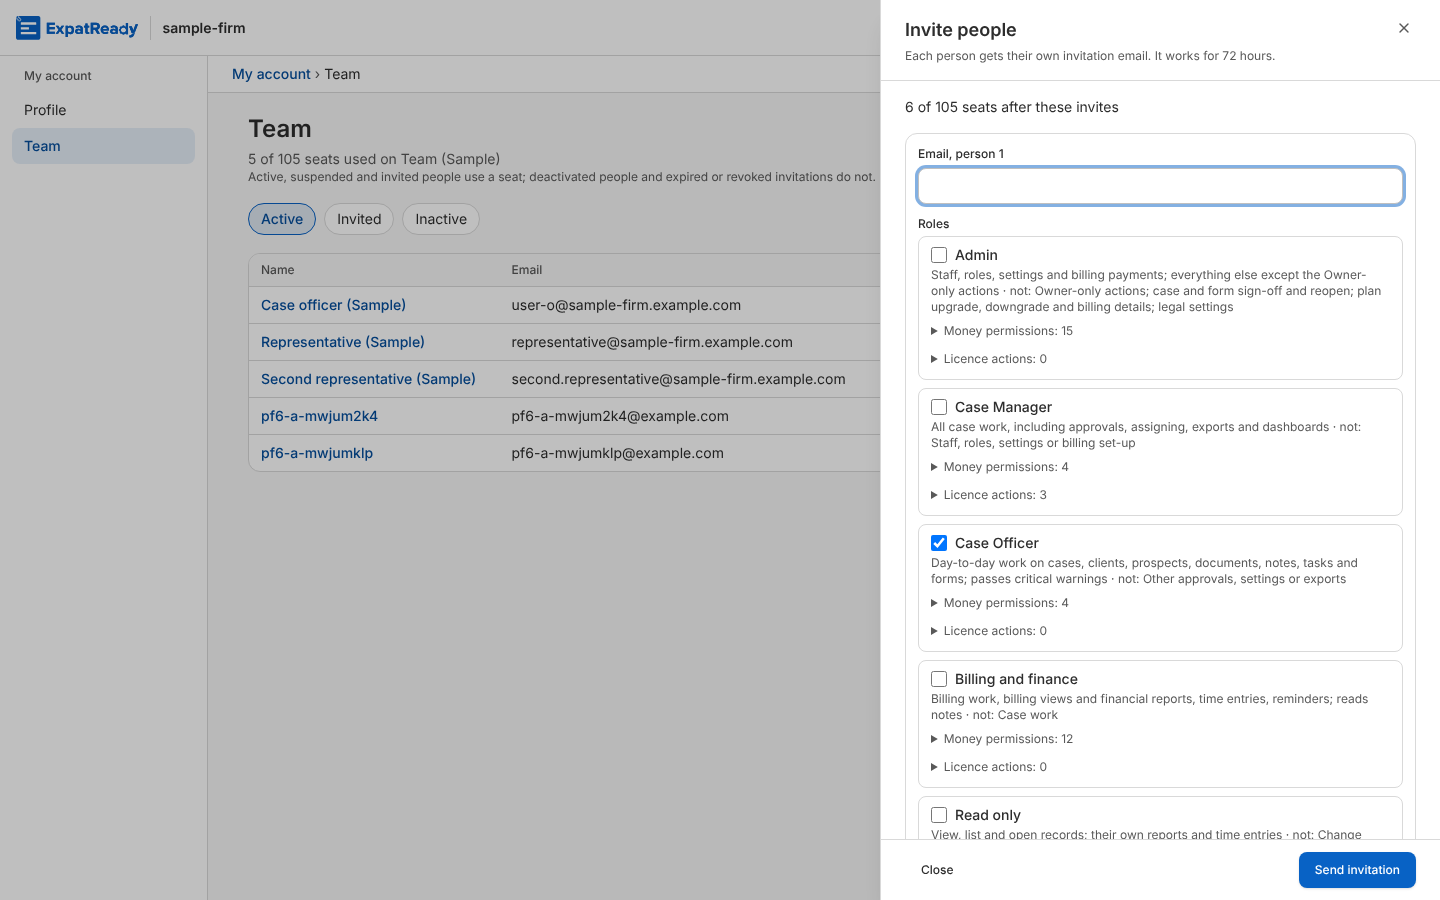
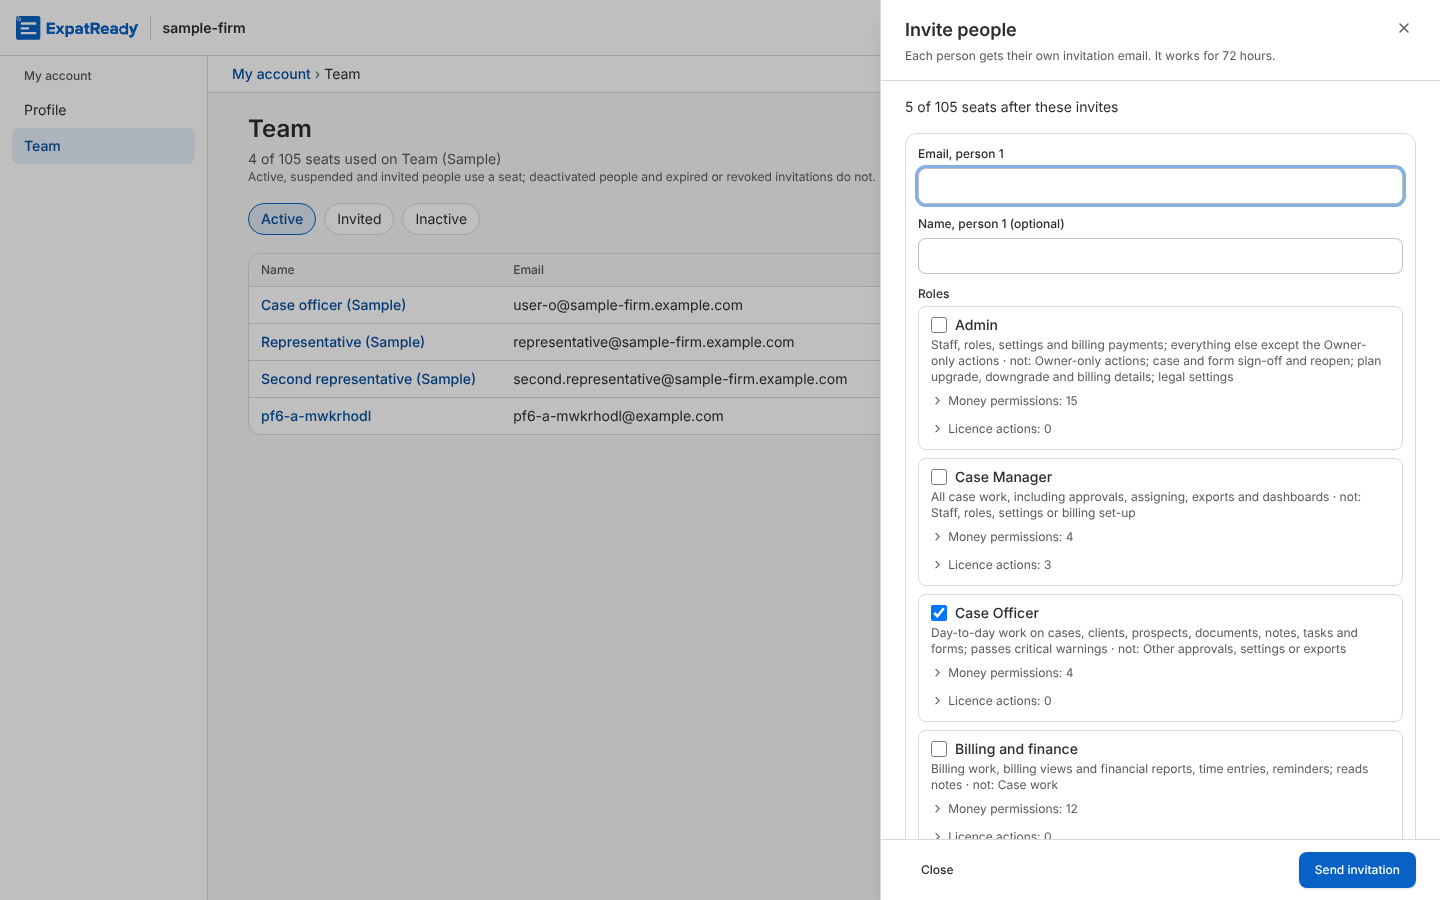
runtime: PF-4dn — Name after Email on each invite row (Email keeps the first focus); MODULE.md lines; screenshot
Claude-Session: https://claude.ai/code/session_018BSQJoYpp2kpcnaLqo1F9Z

diff --git a/ai-workers/problem-1-pathway-setup-and-form-filling/prototype/studio/web/src/modules/platform/staff/invite-panel.tsx b/ai-workers/problem-1-pathway-setup-and-form-filling/prototype/studio/web/src/modules/platform/staff/invite-panel.tsx
@@ -49,11 +49,12 @@ export function InvitePanel({ open, onOpenChange, roles, me, seats, returnFocus 
           const money = moneyKeysAdded(roles, r.roles), dup = twice(r);
           return (
             <section key={r.n} className="rounded-xl border border-border p-3" aria-label={`Person ${i + 1}`} data-invite-row={i + 1}>
-              <Field label={`Name, person ${i + 1} (optional)`}>
-                <Input value={r.name} maxLength={120} autoComplete="off" onChange={(e) => set(r.n, { name: e.target.value, error: null })} data-invite-name />
-              </Field>
-              <div className="mt-3"><Field label={`Email, person ${i + 1}`} error={dup ? "This email is already on another row." : r.error}>
+              <Field label={`Email, person ${i + 1}`} error={dup ? "This email is already on another row." : r.error}>
                 <Input type="email" value={r.email} autoComplete="off" onChange={(e) => set(r.n, { email: e.target.value, error: null })} />
+              </Field>
+              {/* PF-4dn: after the email, the one required field, which keeps the panel's first focus (PF-6 DW8). */}
+              <div className="mt-3"><Field label={`Name, person ${i + 1} (optional)`}>
+                <Input value={r.name} maxLength={120} autoComplete="off" onChange={(e) => set(r.n, { name: e.target.value, error: null })} data-invite-name />
               </Field></div>
               <div className="mt-3"><RolePicker roles={roles} offered={offered} chosen={r.roles} legend="Roles" onChange={(x) => set(r.n, { roles: x, error: null })} /></div>
               <p className="mt-2 text-xs text-text-muted" data-role-line>{r.roles.length ? roleLine(r.roles) : "Choose at least one role."}</p>

diff --git a/ai-workers/problem-1-pathway-setup-and-form-filling/prototype/studio/api/src/platform/MODULE.md b/ai-workers/problem-1-pathway-setup-and-form-filling/prototype/studio/api/src/platform/MODULE.md
@@ -7,7 +7,7 @@ Firms, staff and sign-in, settings, secrets, jobs, logs, complaints and message 
 
 **Purpose.** `firm-scope.ts` the one firm filter; `identity/` tokens, staff and the guard (Cognito or local); `settings.ts` and `config/` typed firm settings and app configuration; `secret-box/` AES-256-GCM secrets; `jobs/` the one job runner (pg-boss); `observability/` the one logger, redaction, metrics, alerts; `web-address/` each firm's web address; `complaints/`; `messages/consent/` the consent store; `audit/`; `firms/` self-serve sign-up to a no-card trial (PF-5); `terms/` pending terms and their acceptances (PF-5t); `billing/` BillingPort's Stripe adapter (`ports/billing.ts` holds the port and its fake).
 **Owner area.** platform module rows PF-* (Unconfirmed: no lane map in code).
-**Entry points.** `/api/platform/complaints` (PF-21w; PF-21v adds `GET handlers`); `/api/platform`: `GET me`, `POST session/local`, `POST staff/invitations`, `POST staff/invitations/batch` (PF-4c: 1-20 rows, flags per row, one seat check), `PATCH staff/:id/roles`, `POST staff/:id/deactivate`, `PUT staff/:id/credential`; PF-4b: `GET staff`, `GET staff/:id`, `GET licences`, `GET|PUT me/account`, `GET settings/two-step`, `POST session/callback`, `POST session/sign-out`, `POST staff/:id/sign-out-everywhere`, `POST staff/:id/reset-two-step`, `/api/public/invitations/:token` (+ `/accept`), `requireStepUp` (401), `MAIL_PORT`, `IDENTITY_ADMIN_PORT`; PF-6r: `GET roles` (the six starter roles, each key with class and scope); PF-19b: `MESSAGE_PORT`, `MESSAGES_MAIL` (MailPort over MessagePort: booking mail), `GET /api/demo/platform-inbox` (demo only, with attachments); `firmScope(firmId)`, `PlatformJobs` (`jobs.handle`), `CONSENT_PORT`, the guard of `/api/platform/*` and `/api/front-office/*`; `/api/public` (PF-5, open doors): `GET plans`, `POST signup`, `POST signup/verify`; PF-5t: `GET me/terms`, `POST me/terms/accept`, `GET terms/acceptances`, `TERMS_GATE` (the guard's 428 TERMS_PENDING).
+**Entry points.** `/api/platform/complaints` (PF-21w; PF-21v adds `GET handlers`); `/api/platform`: `GET me`, `POST session/local`, `POST staff/invitations` (PF-4dn: optional `displayName`, used at accept), `POST staff/invitations/batch` (PF-4c: 1-20 rows, flags per row, one seat check), `PATCH staff/:id/roles`, `POST staff/:id/deactivate`, `PUT staff/:id/credential`; PF-4b: `GET staff`, `GET staff/:id`, `GET licences`, `GET|PUT me/account`, `GET settings/two-step`, `POST session/callback`, `POST session/sign-out`, `POST staff/:id/sign-out-everywhere`, `POST staff/:id/reset-two-step`, `/api/public/invitations/:token` (+ `/accept`), `requireStepUp` (401), `MAIL_PORT`, `IDENTITY_ADMIN_PORT`; PF-6r: `GET roles` (the six starter roles, each key with class and scope); PF-19b: `MESSAGE_PORT`, `MESSAGES_MAIL` (MailPort over MessagePort: booking mail), `GET /api/demo/platform-inbox` (demo only, with attachments); `firmScope(firmId)`, `PlatformJobs` (`jobs.handle`), `CONSENT_PORT`, the guard of `/api/platform/*` and `/api/front-office/*`; `/api/public` (PF-5, open doors): `GET plans`, `POST signup`, `POST signup/verify`; PF-5t: `GET me/terms`, `POST me/terms/accept`, `GET terms/acceptances`, `TERMS_GATE` (the guard's 428 TERMS_PENDING).
 
 **Invariants (set by).**
 - Every read and write of a platform or front-office table goes through `firmScope(firmId)`; another firm's row is "not found" (PF-3, contracts §0.2; P-559).
@@ -25,7 +25,7 @@ Firms, staff and sign-in, settings, secrets, jobs, logs, complaints and message 
 - Firms' billing goes through BillingPort only; CI and lanes use its fake or recorded Stripe answers, never a live call (PF-5, contracts §0.3).
 
 **Tables.** platformFirm, platformStaff, platformStaffCredential, platformRoleGrant, platformSessionRevocation, platformFirmSetting, platformFirmWebAddress, platComplaint, platComplaintEvent, msgConsent, msgConsentWording, platformTermsVersion, platformTermsAcceptance, platformSignupPending, moduleEvent, auditEvent.
-**Tests.** `tests/check_pf12_walls.ts`, `tests/check_pf3_platform_schema.ts`, `tests/check_pf4_identity.ts`, `tests/check_pf4b_session_reads.ts`, `tests/check_pf4c_batch_invite.ts`, `tests/check_pf6m_money_line.ts`, `tests/check_pf6m2_invite_recheck.ts`, `tests/check_pf14_jobs.ts`, `tests/check_pf21_complaints.ts`, `tests/check_pf21w_routes.ts`, `tests/check_pf21v_views.ts`, `tests/check_pf23_observability.ts`, `tests/check_pf24_secrets.ts`, `tests/check_pf25_web_address.ts`, `tests/check_pf5_signup_billing.ts`, `tests/check_pf5v_signup_mail.ts` (PF-5v: the empty fields' plain words), `tests/check_pf19b_sending.ts`, `tests/check_pf19b_mail.ts`, `tests/check_pf5t_terms.ts`.
+**Tests.** `tests/check_pf12_walls.ts`, `tests/check_pf3_platform_schema.ts`, `tests/check_pf4_identity.ts`, `tests/check_pf4b_session_reads.ts`, `tests/check_pf4c_batch_invite.ts`, `tests/check_pf4dn_invite_name.ts`, `tests/check_pf6m_money_line.ts`, `tests/check_pf6m2_invite_recheck.ts`, `tests/check_pf14_jobs.ts`, `tests/check_pf21_complaints.ts`, `tests/check_pf21w_routes.ts`, `tests/check_pf21v_views.ts`, `tests/check_pf23_observability.ts`, `tests/check_pf24_secrets.ts`, `tests/check_pf25_web_address.ts`, `tests/check_pf5_signup_billing.ts`, `tests/check_pf5v_signup_mail.ts` (PF-5v: the empty fields' plain words), `tests/check_pf19b_sending.ts`, `tests/check_pf19b_mail.ts`, `tests/check_pf5t_terms.ts`.
 
 **Do not.**
 - Query a firm table without `firmScope`.
